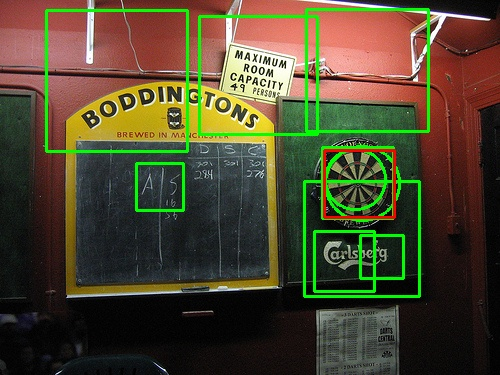
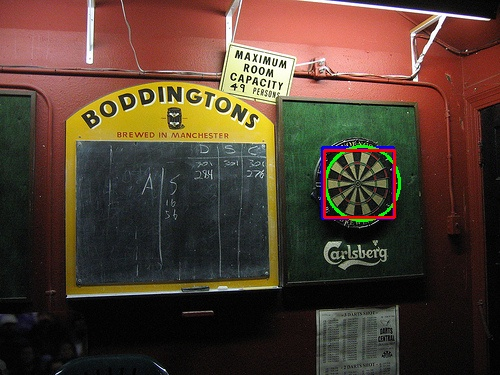
complete circle detection in I and II

Changed region(s): [[0.06, 0.0, 0.87, 0.8213]]

diff --git a/CW-I-Shape-Detection-Dartboard/Task2.py b/CW-I-Shape-Detection-Dartboard/Task2.py
@@ -13,7 +13,7 @@ logging.basicConfig(
 
 
 cascade_name = "./Dartboardcascade/cascade.xml"
-IOU_thr = 0.5
+IOU_thr = 0.4
 
 # Circle Detector
 MIN_R = 30
@@ -22,7 +22,7 @@ SAMPLE_R = 10
 MAG_THR = 0.4
 CENTER_BIAS_X = 0.07
 CENTER_BIAS_Y = 0.07
-
+RADIUS_THR = 0.8
 
 
 class Circle:
@@ -35,13 +35,14 @@ class Circle:
         cv2.circle(frame, (int(self.x), int(self.y)), int(self.r), (0, 255, 0), 2)
 
     def __str__(self):
-        return f"center: {self.x, self.y} \tradius: {self.r}"
+        return f"center: {self.x, self.y} \tradius: {round(self.r, 2)}"
 
 class BoundingBox:
     def __init__(self, *args):
         if len(args) == 4:
             # x, y, width, height
             self.x, self.y, self.width, self.height = args
+            self.best_circle = None
 
         elif len(args) == 2:
             # start, end
@@ -50,6 +51,7 @@ class BoundingBox:
             self.y = start[1]
             self.width = end[0] - start[0]
             self.height = end[1] - start[1]
+            self.best_circle = None
         else:
             raise RuntimeError("Wrong BBox init")
     
@@ -66,6 +68,10 @@ class BoundingBox:
 
     def __str__(self):
         return f"x: {int(self.x)}\ty: {int(self.y)}\tw: {int(self.width)}\th: {int(self.height)}"
+    
+    def draw(self, frame):
+        start_point, end_point = self.twoPoints
+        frame = cv2.rectangle(frame, start_point, end_point, (255, 0, 0), 2)
 
 def correlation(image, kernel):
     height, width = image.shape
@@ -164,9 +170,6 @@ def detectAndDisplay(frame):
     for i in range(0, len(faces)):
         start_point = (faces[i][0], faces[i][1])
         end_point = (faces[i][0] + faces[i][2], faces[i][1] + faces[i][3])
-        colour = (0, 255, 0)
-        thickness = 2
-        frame = cv2.rectangle(frame, start_point, end_point, colour, thickness)
         bboxes.append(BoundingBox(start_point, end_point))
     return bboxes
 
@@ -195,6 +198,11 @@ def drawGTBox(frame, ground_truth):
         cv2.rectangle(frame, start, end, (0, 0, 255), 2)   # red box
     return frame
 
+def drawBBox(frame, BBoxes: List[BoundingBox]):
+    for box in BBoxes:
+        if box.best_circle is not None:
+            box.draw(frame)
+
 def hough_fix_r(mag, dir, r, mask):
     h, w = mag.shape
     acc = np.zeros((h, w))
@@ -214,8 +222,6 @@ def circlesDectection(bboxes: List[BoundingBox], min_r: int, max_r: int, sample_
     circles = []
     frame_gray = cv2.cvtColor(frame, cv2.COLOR_BGR2GRAY)
     frame_gray = cv2.equalizeHist(frame_gray)
-
-    print("Start circles detection: ")
     for box in bboxes:
         region = selectRegion(frame_gray, box)
         magnitude, direction = sobel(region)
@@ -232,6 +238,8 @@ def circlesDectection(bboxes: List[BoundingBox], min_r: int, max_r: int, sample_
         for i, r in enumerate(radii):
             acc[i] = hough_fix_r(magnitude, direction, r, mask)
 
+        best_r = 0
+        best_center = (0, 0)
         for i, r in enumerate(radii):
             acc_i = acc[i]
             max_vote = acc_i.max()
@@ -248,11 +256,35 @@ def circlesDectection(bboxes: List[BoundingBox], min_r: int, max_r: int, sample_
                 x_flag = box.x + (0.5 - CENTER_BIAS_X) * box.width  < global_x < box.x + (0.5 + CENTER_BIAS_X) * box.width
                 y_flag = box.y + (0.5 - CENTER_BIAS_Y) * box.height < global_y < box.y + (0.5 + CENTER_BIAS_Y) * box.height
                 if x_flag and y_flag:
-                    circle = Circle(global_x, global_y, r)
-                    circles.append(circle)
-                    print(circle)
+                    if r > best_r:
+                        best_r = r
+                        best_center = global_x, global_y
+        # Best r is greater than (average width + height) * RADIUS_THR
+        if best_r > RADIUS_THR * (box.height + box.width) / 4:
+            circle = Circle(best_center[0], best_center[1], best_r)
+            box.best_circle = circle
+            circles.append(circle)
+            print(circle)
     return circles
         
+def benchmark(detectBBoxes: List[BoundingBox], realBBoxes: List[BoundingBox]):
+    TP = calculateTP(detectBBoxes=detectBBoxes, realBBoxes=realBBoxes)
+    FP = len(detectBBoxes) - TP
+    FN = len(realBBoxes) - TP
+    TPR = TP / len(realBBoxes)
+    if len(detectBBoxes) == 0:
+        FPR = 0.0
+    else:
+        FPR = FP / len(detectBBoxes)
+    if TP + FP == 0:
+        precision = 0
+    else:
+        precision = TP / (TP + FP)
+    f1 = calculateF1Score(recall=TPR, precision=precision)
+    logging.info(f"TPR: {round(TPR, 3)}")
+    logging.info(f"FPR: {round(FPR, 3)}")
+    logging.info(f"F1 : {round(f1, 3)}")
+
 model = cv2.CascadeClassifier(cascade_name)
 imageNames = []
 ground_truth = readGroundtruth("./ground_truth.txt")
@@ -260,27 +292,20 @@ ground_truth = readGroundtruth("./ground_truth.txt")
 
 for name in imageNames:
     logging.info(name + ".jpg")
+    print(name)
+
     frame = cv2.imread("./Dartboard/" + name + ".jpg", 1)
     detectBBoxes = detectAndDisplay(frame)
     realBBoxes = ground_truth[name]
 
     circles = circlesDectection(bboxes=detectBBoxes, min_r=MIN_R, max_r=MAX_R, sample_r=SAMPLE_R)
+    detectBBoxes = [box for box in detectBBoxes if box.best_circle is not None]
 
-    for c in circles:
-        print(c)
-
-    TP = calculateTP(detectBBoxes=detectBBoxes, realBBoxes=realBBoxes)
-    FP = len(detectBBoxes) - TP
-    FN = len(realBBoxes) - TP
-    TPR = TP / len(realBBoxes)
-    FPR = FP / len(detectBBoxes)
-    precision = TP / (TP + FP)
-    f1 = calculateF1Score(recall=TPR, precision=precision)
-    logging.info(f"TPR: {round(TPR, 3)}")
-    logging.info(f"FPR: {round(FPR, 3)}")
-    logging.info(f"F1 : {round(f1, 3)}")
+    # Drawing
+    drawBBox(frame, BBoxes=detectBBoxes)
     for circle in circles:
         circle.draw(frame)
     drawGTBox(frame, ground_truth[name])
+    benchmark(detectBBoxes, realBBoxes)
     cv2.imwrite(f"./DartboardOut/{name}.jpg", frame)
     logging.info("")

diff --git a/CW-II-3d-from-stereo/Task1.py b/CW-II-3d-from-stereo/Task1.py
@@ -1,0 +1,33 @@
+import cv2
+import numpy as np
+
+dp = 1 # acc same size with image
+minDist = 15
+mag_thr = 40
+acc_thr = 30
+
+def detectCircle(img):
+    gray = cv2.cvtColor(img, cv2.COLOR_BGR2GRAY)
+    circles = cv2.HoughCircles(
+        gray,
+        cv2.HOUGH_GRADIENT,
+        dp,
+        minDist,
+        param1=mag_thr,   # mag thr 
+        param2=acc_thr,   # acc thr
+        minRadius=12,
+        maxRadius=35
+    )
+
+    if circles is not None:
+        circles = np.uint16(np.around(circles))
+        for x, y, r in circles[0]:
+            cv2.circle(img, (x, y), r, (0,255,0), 2)
+
+
+image0 = cv2.imread("./view0.png", 1)
+image1 = cv2.imread("./view1.png", 1)
+detectCircle(image0)
+detectCircle(image1)
+cv2.imwrite("image0.png", image0)
+cv2.imwrite("image1.png", image1)
